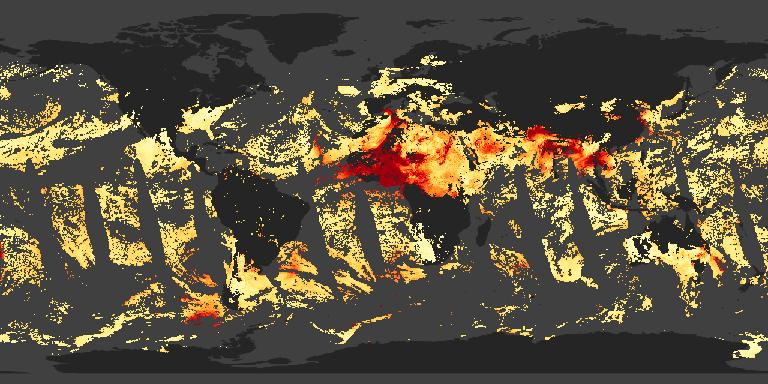
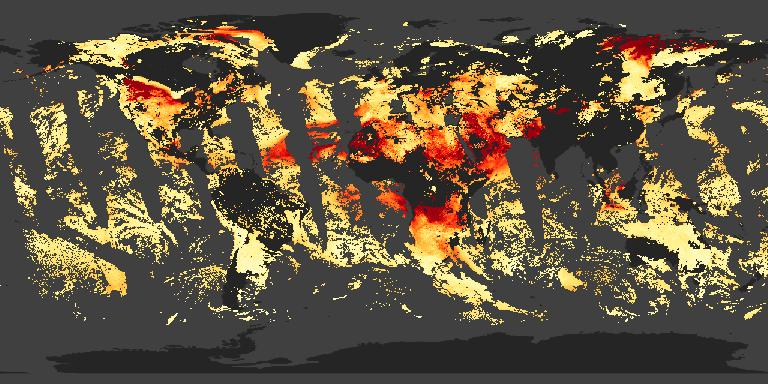
WV-4141: Remove Deep Blue v2.0 AOT layers (#6878)
* Remove Deep Blue v2.0 AOT layers

* Remove preview images

* Update share-test.spec.js

* Update share-test.spec.js

* Reenable VIIRS_SNPP_AOT_Deep_Blue_Best_Estimate for EIC

diff --git a/e2e/features/share/share-test.spec.js b/e2e/features/share/share-test.spec.js
@@ -86,7 +86,7 @@ test('Clicking Shorten link works with links less than 2049 characters', async (
 
 test('Clicking Shorten link is refused with links greater than 2048 characters', async () => {
   const { shareToolbarButton } = selectors
-  const longQueryString = 'http://localhost:3000/?l=MODIS_Terra_AOD_Deep_Blue_Combined,MODIS_Terra_AOD_Deep_Blue_Land,MODIS_Terra_Angstrom_Exponent_Ocean,MODIS_Terra_Angstrom_Exponent_Land,MODIS_Terra_Aerosol_Optical_Depth_3km,MODIS_Terra_Aerosol,MISR_Aerosol_Optical_Depth_Avg_Green_Monthly,VIIRS_SNPP_Angstrom_Exponent_Dark_Target_Ocean,VIIRS_SNPP_AOD_Dark_Target_Land_Ocean,VIIRS_SNPP_Angstrom_Exponent_Deep_Blue_Best_Estimate,VIIRS_SNPP_AOT_Deep_Blue_Best_Estimate,SWDB_Aerosol_Angstrom_Exponent_Monthly,SWDB_Aerosol_Optical_Thickness_550nm_Monthly,SWDB_Aerosol_Angstrom_Exponent_Daily,SWDB_Aerosol_Optical_Thickness_550nm_Daily,MERRA2_Total_Aerosol_Optical_Thickness_550nm_Extinction_Monthly,MERRA2_Total_Aerosol_Optical_Thickness_550nm_Scattering_Monthly,OMI_Absorbing_Aerosol_Optical_Thickness_MW_388,OMI_Absorbing_Aerosol_Optical_Depth,OMI_Aerosol_Optical_Depth,MODIS_Aqua_AOD_Deep_Blue_Combined,MODIS_Aqua_AOD_Deep_Blue_Land,MODIS_Aqua_Angstrom_Exponent_Ocean,MODIS_Aqua_Angstrom_Exponent_Land,MODIS_Aqua_Aerosol_Optical_Depth_3km,MODIS_Aqua_Aerosol,MODIS_Combined_MAIAC_L2G_AerosolOpticalDepth,MODIS_Combined_Value_Added_AOD,MLS_CO_215hPa_Night,MLS_CO_215hPa_Day,AIRS_L3_Carbon_Monoxide_500hPa_Volume_Mixing_Ratio_Monthly_Night,AIRS_L3_Carbon_Monoxide_500hPa_Volume_Mixing_Ratio_Monthly_Day,AIRS_L3_Carbon_Monoxide_500hPa_Volume_Mixing_Ratio_Daily_Night,AIRS_L3_Carbon_Monoxide_500hPa_Volume_Mixing_Ratio_Daily_Day,AIRS_L2_Carbon_Monoxide_500hPa_Volume_Mixing_Ratio_Night,AIRS_L2_Carbon_Monoxide_500hPa_Volume_Mixing_Ratio_Day,OrbitTracks_Aura_Descending,OrbitTracks_Aura_Ascending,OrbitTracks_Aqua_Ascending,OrbitTracks_Suomi_NPP_Ascending,VIIRS_SNPP_Aerosol_Type_Deep_Blue_Best_Estimate,Reference_Labels_15m,Reference_Features_15m,Coastlines_15m,MODIS_Combined_L3_Nadir-BRDF_Daily,MODIS_Combined_MAIAC_L2G_BidirectionalReflectance_Bands143,VIIRS_NOAA20_CorrectedReflectance_TrueColor(hidden),VIIRS_SNPP_CorrectedReflectance_TrueColor(hidden),MODIS_Aqua_CorrectedReflectance_TrueColor(hidden),MODIS_Terra_CorrectedReflectance_TrueColor&lg=true&t=2022-08-10-T15%3A15%3A05Z'
+  const longQueryString = 'http://localhost:3000/?l=MODIS_Terra_AOD_Deep_Blue_Combined,MODIS_Terra_AOD_Deep_Blue_Land,MODIS_Terra_Angstrom_Exponent_Ocean,MODIS_Terra_Angstrom_Exponent_Land,MODIS_Terra_Aerosol_Optical_Depth_3km,MODIS_Terra_Aerosol,MISR_Aerosol_Optical_Depth_Avg_Green_Monthly,VIIRS_SNPP_Angstrom_Exponent_Dark_Target_Ocean,VIIRS_SNPP_AOD_Dark_Target_Land_Ocean,VIIRS_SNPP_Angstrom_Exponent_Deep_Blue_Land_Ocean,VIIRS_SNPP_AOD_Deep_Blue_Land_Ocean,SWDB_Aerosol_Angstrom_Exponent_Monthly,SWDB_Aerosol_Optical_Thickness_550nm_Monthly,SWDB_Aerosol_Angstrom_Exponent_Daily,SWDB_Aerosol_Optical_Thickness_550nm_Daily,MERRA2_Total_Aerosol_Optical_Thickness_550nm_Extinction_Monthly,MERRA2_Total_Aerosol_Optical_Thickness_550nm_Scattering_Monthly,OMI_Absorbing_Aerosol_Optical_Thickness_MW_388,OMI_Absorbing_Aerosol_Optical_Depth,OMI_Aerosol_Optical_Depth,MODIS_Aqua_AOD_Deep_Blue_Combined,MODIS_Aqua_AOD_Deep_Blue_Land,MODIS_Aqua_Angstrom_Exponent_Ocean,MODIS_Aqua_Angstrom_Exponent_Land,MODIS_Aqua_Aerosol_Optical_Depth_3km,MODIS_Aqua_Aerosol,MODIS_Combined_MAIAC_L2G_AerosolOpticalDepth,MODIS_Combined_Value_Added_AOD,MLS_CO_215hPa_Night,MLS_CO_215hPa_Day,AIRS_L3_Carbon_Monoxide_500hPa_Volume_Mixing_Ratio_Monthly_Night,AIRS_L3_Carbon_Monoxide_500hPa_Volume_Mixing_Ratio_Monthly_Day,AIRS_L3_Carbon_Monoxide_500hPa_Volume_Mixing_Ratio_Daily_Night,AIRS_L3_Carbon_Monoxide_500hPa_Volume_Mixing_Ratio_Daily_Day,AIRS_L2_Carbon_Monoxide_500hPa_Volume_Mixing_Ratio_Night,AIRS_L2_Carbon_Monoxide_500hPa_Volume_Mixing_Ratio_Day,OrbitTracks_Aura_Descending,OrbitTracks_Aura_Ascending,OrbitTracks_Aqua_Ascending,OrbitTracks_Suomi_NPP_Ascending,OrbitTracks_NOAA-20_Ascending,VIIRS_SNPP_Aerosol_Type_Deep_Blue_Land_Ocean,Reference_Labels_15m,Reference_Features_15m,Coastlines_15m,MODIS_Combined_L3_Nadir-BRDF_Daily,MODIS_Combined_MAIAC_L2G_BidirectionalReflectance_Bands143,VIIRS_NOAA20_CorrectedReflectance_TrueColor(hidden),VIIRS_SNPP_CorrectedReflectance_TrueColor(hidden),MODIS_Aqua_CorrectedReflectance_TrueColor(hidden),MODIS_Terra_CorrectedReflectance_TrueColor&lg=true&t=2022-08-10-T15%3A15%3A05Z'
   await page.goto(longQueryString)
   await closeModal(page)
   const linkShortenCase = await page.locator('#wv-link-shorten')
